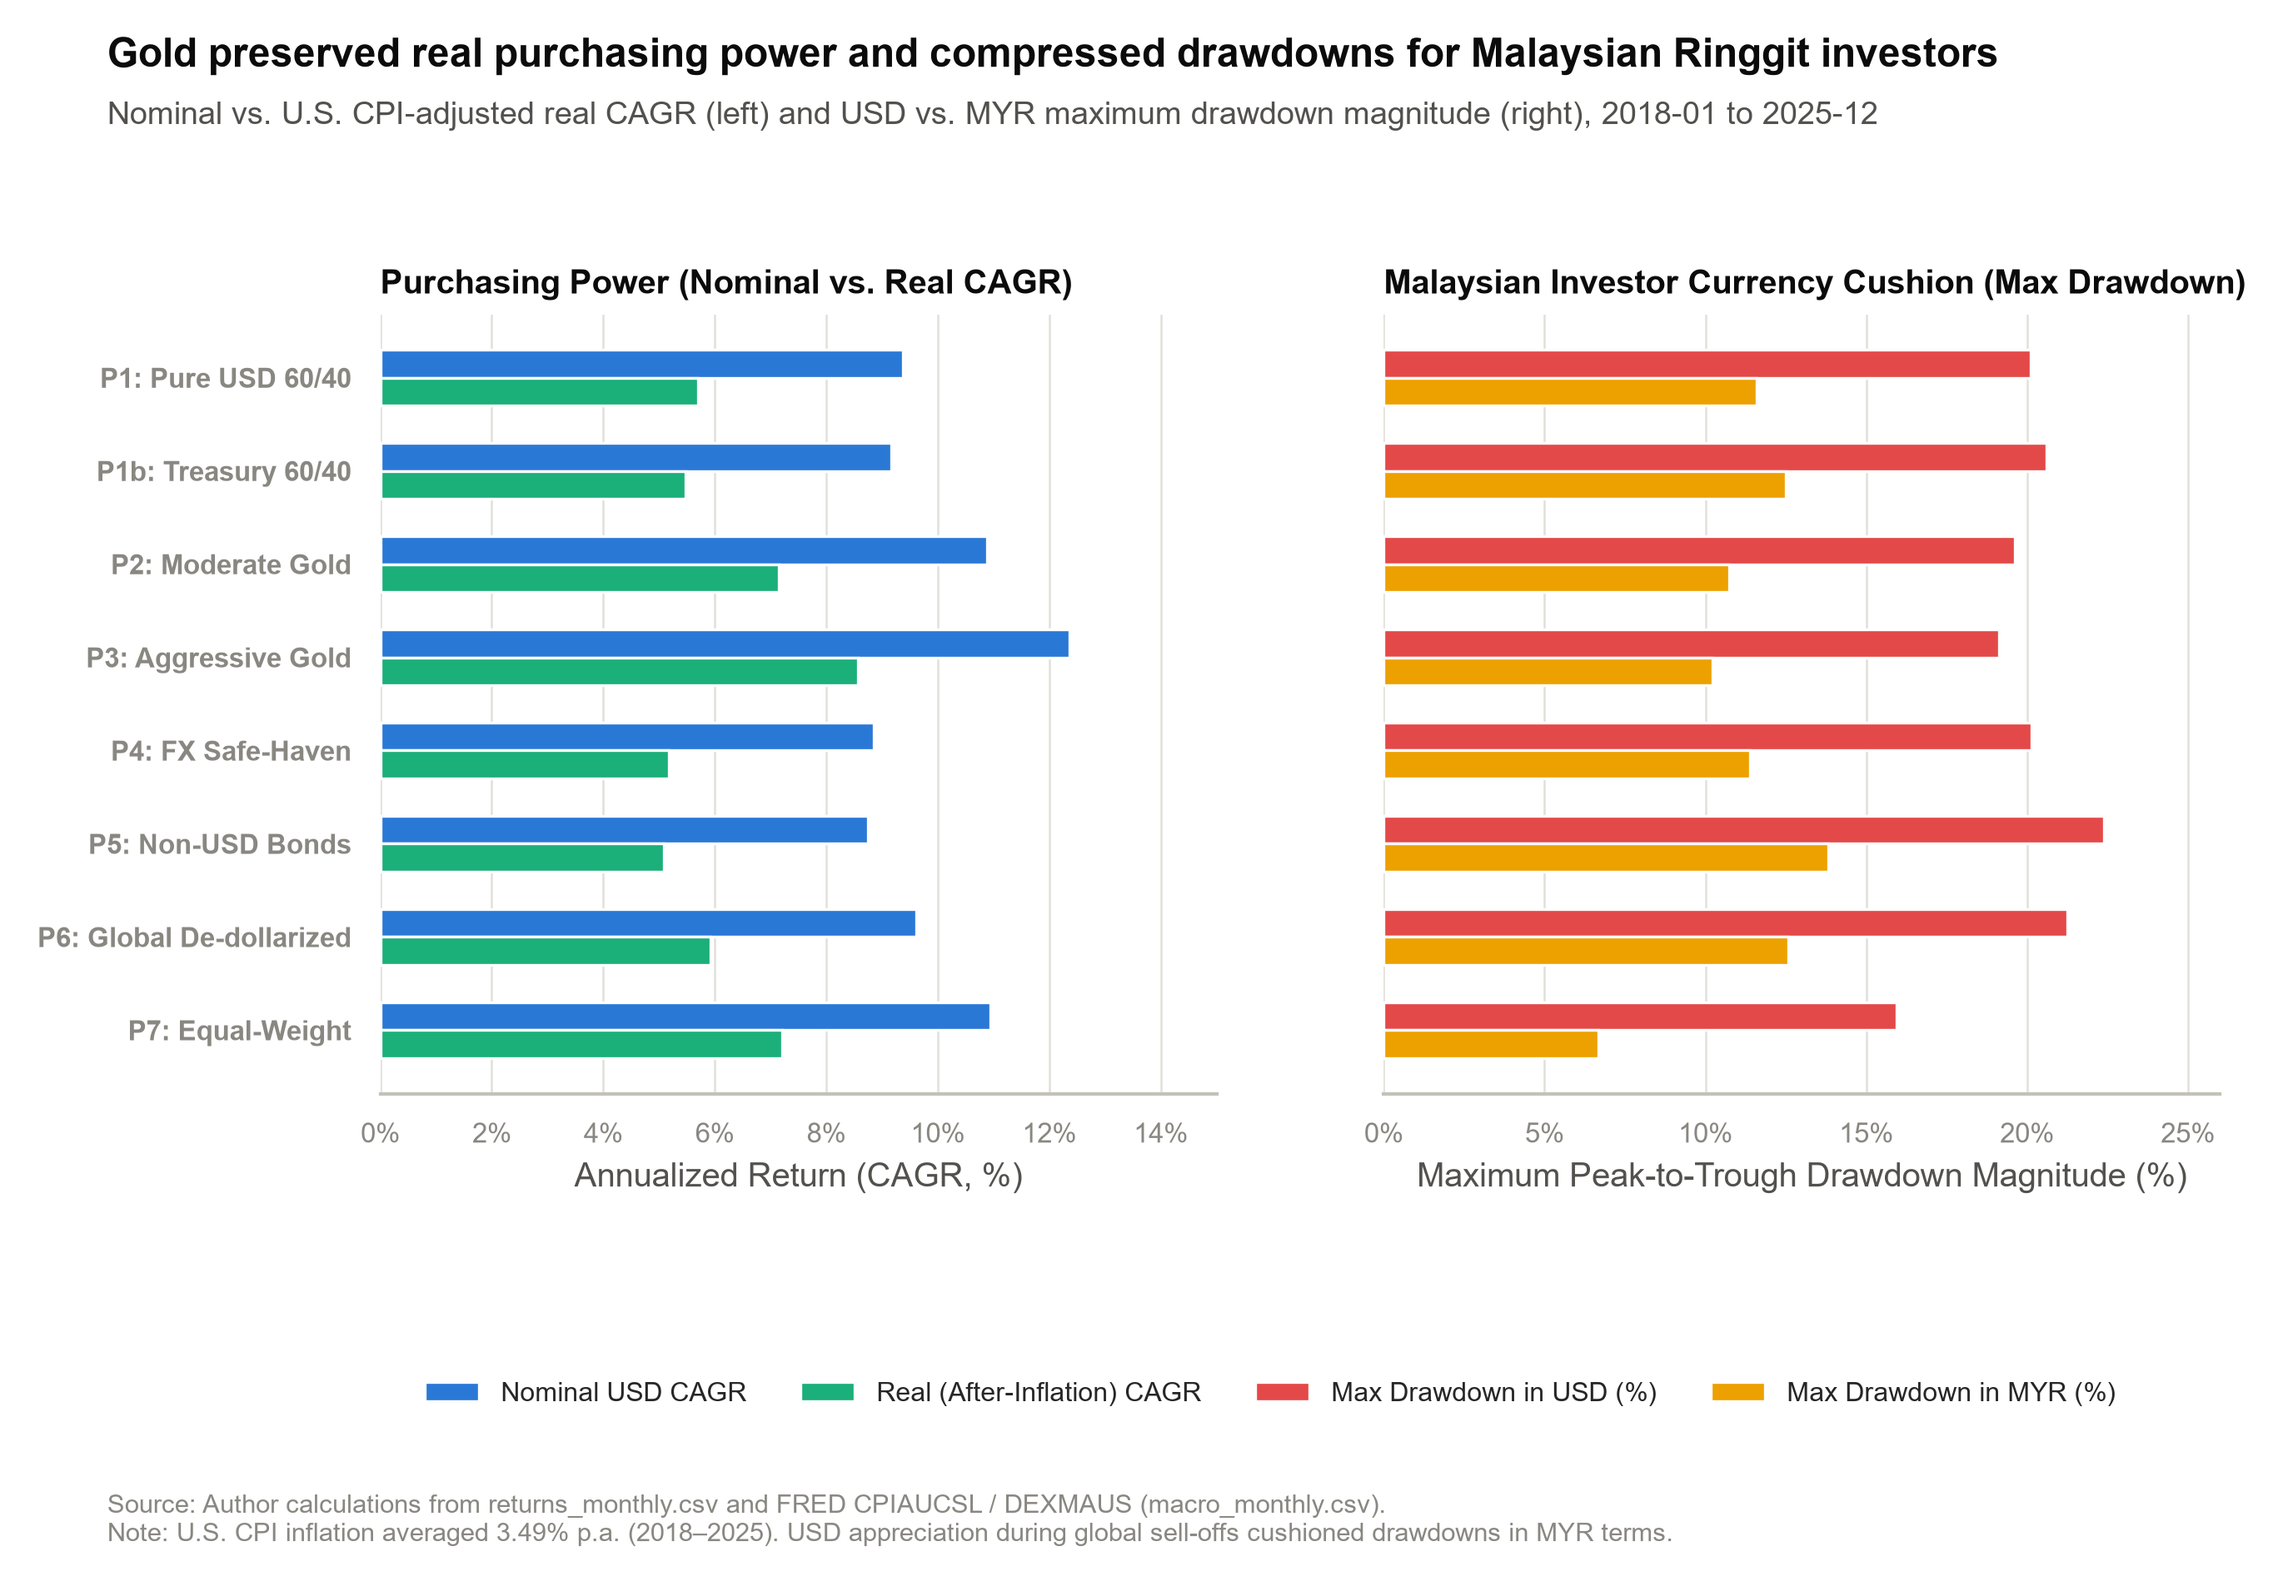
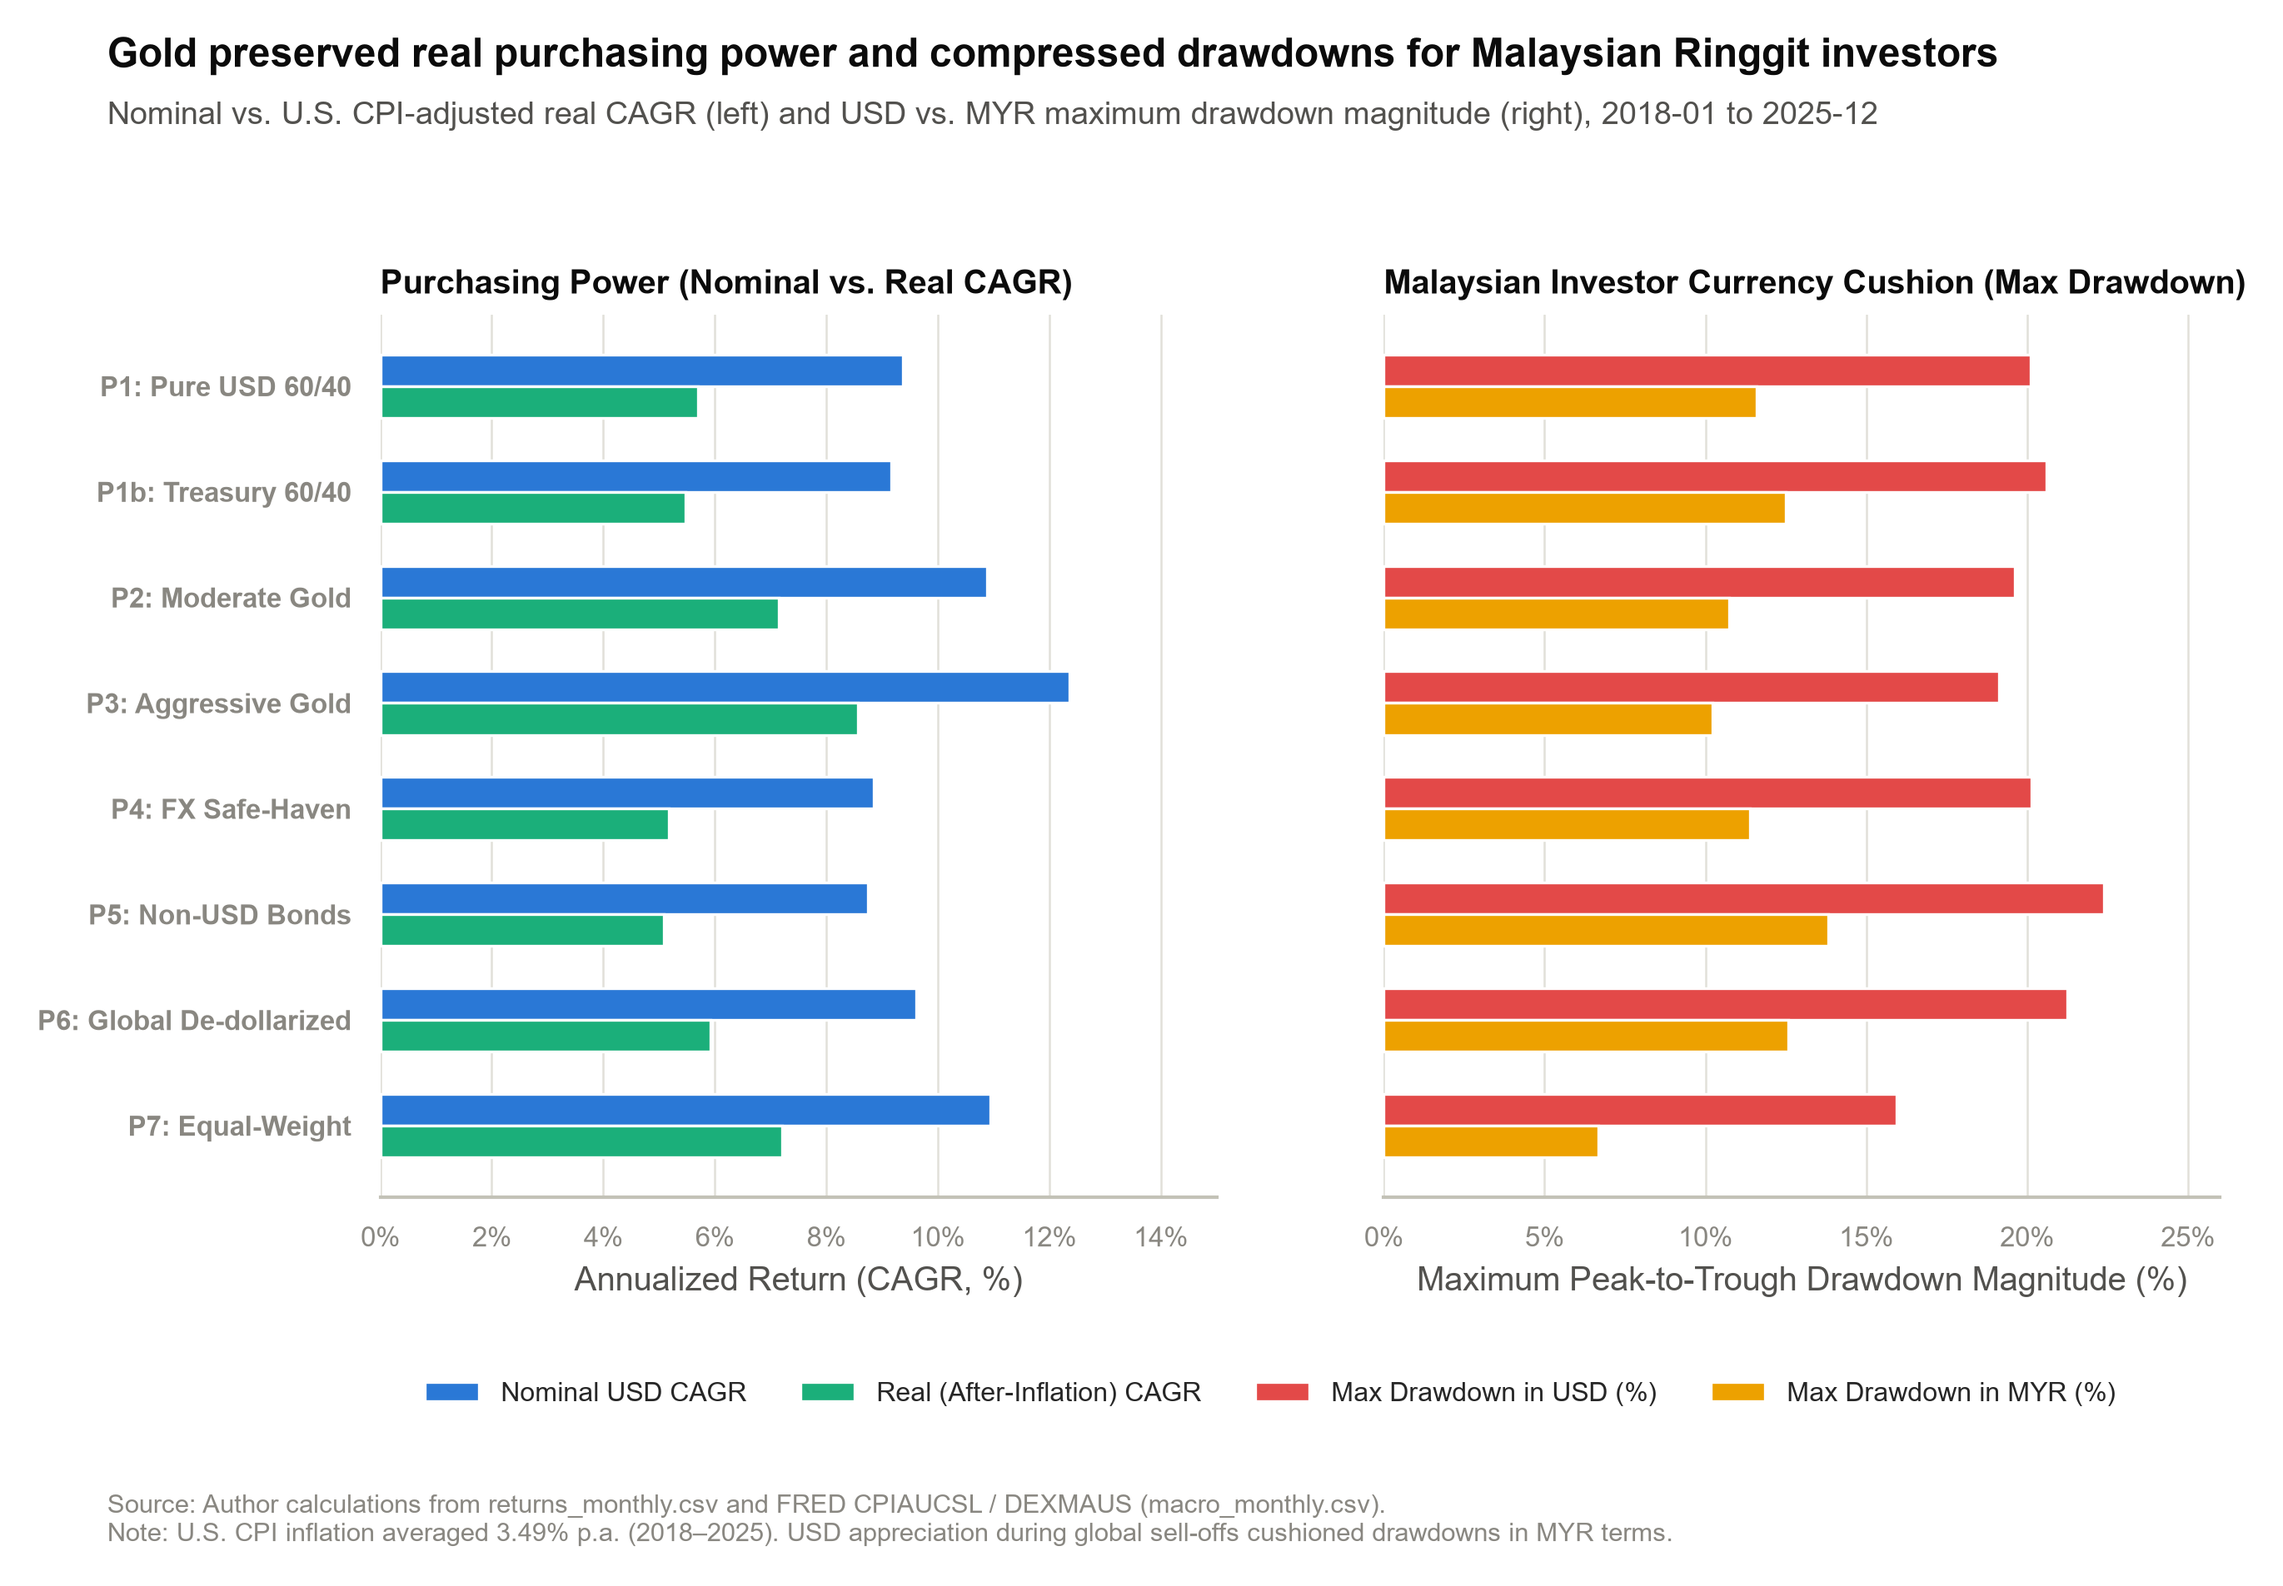
minor adjustments to legend top padding

diff --git a/scripts/rq3/run_rq3_analysis.py b/scripts/rq3/run_rq3_analysis.py
@@ -372,7 +372,7 @@ def fig_01_wealth_drawdown(df):
         frameon=False,
         fontsize=7.8,
     )
-    fig.subplots_adjust(bottom=0.28)
+    fig.subplots_adjust(bottom=0.17)
 
     finish(
         fig,
@@ -646,7 +646,7 @@ def fig_04_efficient_frontier(df):
         frameon=False,
         fontsize=7.5,
     )
-    fig.subplots_adjust(bottom=0.33)
+    fig.subplots_adjust(bottom=0.26)
 
     finish(
         fig,
@@ -736,7 +736,7 @@ def fig_05_multi_crisis_2008_2025(df):
         frameon=False,
         fontsize=8,
     )
-    fig.subplots_adjust(bottom=0.38)
+    fig.subplots_adjust(bottom=0.29)
 
     finish(
         fig,
@@ -838,7 +838,7 @@ def fig_06_real_vs_myr_returns(df):
         frameon=False,
         fontsize=7.8,
     )
-    fig.subplots_adjust(bottom=0.28)
+    fig.subplots_adjust(bottom=0.20)
 
     finish(
         fig,
